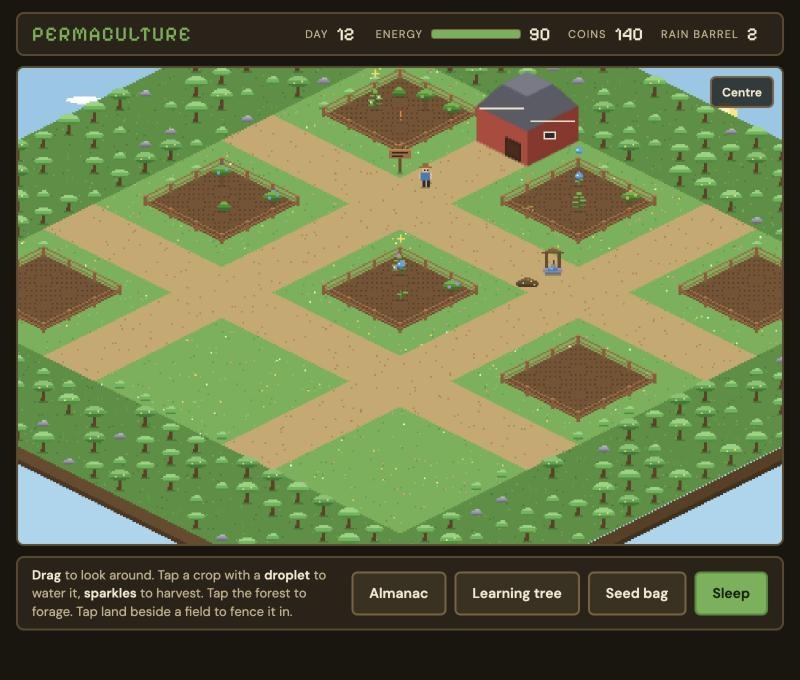
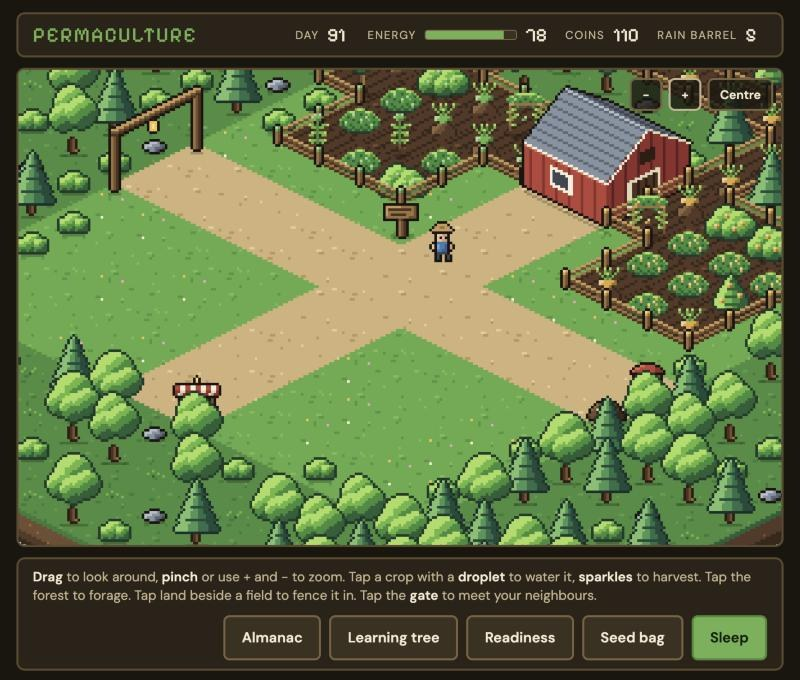
Show the new art in the README, and bring the roadmap and the code tour up to it
The README's picture of the farm, and the picture a chat app shows
beside a farm link, are of the new art. The roadmap marks sprite sheets
done and says what is still to come there. The code tour points at the
sheet, at the scripts that drew it and at the view, and says where to
change how a crop looks.

diff --git a/ROADMAP.md b/ROADMAP.md
@@ -35,7 +35,7 @@ These hold in every phase. A change that breaks one is the wrong change.
 | 1 | The rules as their own tested engine; packs loaded from files; seven packs and 200+ seeds; the depth ladder (notes → recall → explain → harvest) | Done — version 0.1.0 |
 | 2 | **Neighbours**: farms you can see and rain you can send, with no server | Seeing is built (version 0.2.0); rain is next |
 | 3 | **Your own AI key** (optional): judged harvests, a pack forge, fresh wild finds | Next |
-| 4 | **Art**: a farm you can read at a glance, then sprite sheets, a faster renderer, terraces, weather | First step built (version 0.3.0); sprite sheets wait for an art direction |
+| 4 | **Art**: a farm you can read at a glance, then sprite sheets, a faster renderer, terraces, weather | First two steps built (versions 0.3.0 and 0.8.0): each layer has its own shape, and the farm is drawn from a sprite sheet, sharp and zoomable on phone and laptop |
 | 5 | **The village server**: pictures that can be withdrawn, rain that arrives by itself | When players need it |
 | any | **The rest of the rules**, which need no AI and no server: readiness, earned unlocks, then layer balance, guilds, edges, saplings, the market | Readiness and earned unlocks (version 0.4.0), layer balance (0.5.0), guilds, edges and saplings (0.6.0) and the market, the rival and the weekly walk (0.7.0) are built; a planner is next |
 
@@ -68,12 +68,12 @@ The key is yours, kept only in your browser, and calls go straight from your bro
 
 ### Phase 4 — Art
 
-Every tile, crop and building is drawn by code, as small rectangles on a 480×300 canvas. That keeps the game tiny and fast, but there is no zoom, one season, and the art is as good as rectangles get.
+Every tile, crop and building was first drawn by code, as small rectangles on a 480×300 canvas, with no zoom. Steps 1 and 2 below have replaced that.
 
 In order, each step shipping by itself:
 
 1. **Readable at a glance** *(done, version 0.3.0; no new technology)*. Crops are drawn by their **layer**: a canopy seed grows into a tall tree, an understory seed into a small pointed one, a shrub is a round bush, a herb a stalk, ground cover a flat mat, a root a mound of earth, and a vine climbs a pole. The map now says what *kind* of knowledge sits where. Each field flies a flag in its colour. Small moments: a splash when you water, a ring when a crop grows, sparks from a harvest. The game carries its own fonts, so the page asks no other site for anything. Still to come here: rain falling when a neighbour sends it, which arrives with rain itself.
-2. **Sprite sheets** *(next; needs a choice of art first)*. One consistent pixel-art tileset replaces the code-drawn shapes: growth animations, day and night, seasons. Two sources are on the table: Kenney's isometric set, which is free for any use (CC0), or art that is generated and then touched up by hand in Aseprite. Art becomes a file anyone can contribute, the way a pack is.
+2. **Sprite sheets** *(done, version 0.8.0)*. One pixel-art sheet, made for this game, replaces the code-drawn shapes: one palette, one direction of light, every crop of every layer at every stage, and a wilted look for each. Art is now a file anyone can change, the way a pack is: open the sheet in a pixel editor, or change the scripts in `art/` that drew it. The farm is drawn at the screen's own resolution, so it is sharp on a phone and on a laptop, and it zooms: pinch, or use the + and − buttons. Still to come here: growth as animation, day and night, seasons.
 3. **A faster renderer** (PixiJS or Phaser): a camera, zoom, smooth panning, particles, and worlds much larger than one screen at 60 frames a second on a phone.
 4. **Layers as terraces.** A field's seven layers drawn up a hillside, so a hollow layer is visible from across the map.
 5. **Weather, sound and tools.** Real weather from Coorg drives the sky. The farm has sound. Tools you have earned stand on the farm as things you can see.
@@ -117,7 +117,7 @@ These are in the design, marked *(planned)* until they are built. They serve pla
 |---|---|---|
 | want to learn something | Play for a week and tell us what felt like a game and what felt like a quiz wearing a hat | the README, then an Issue or a Discussion |
 | know a subject well | Write a pack for a goal of your own, or sharpen the questions in one that exists. No code | [`docs/pack-format.md`](docs/pack-format.md) |
-| can draw pixel art | Improve a crop's shape (each is a short list of rectangles in `src/game/shapes.ts`), or sketch a tileset for Phase 4 step 2 | open a Discussion with a sketch first |
+| can draw pixel art | Improve a sprite: open `src/game/art/sheet.png` in a pixel editor, or change the script in `art/` that drew it (see `art/README.md`) | open a Discussion with a sketch first |
 | write TypeScript | A seed from the roadmap pack, a bug, or one of the rest of the rules above | [`docs/code-tour.md`](docs/code-tour.md), [`CONTRIBUTING.md`](CONTRIBUTING.md) |
 | care about accessibility | The game has had no full accessibility pass yet: contrast, keyboard play, screen readers | an Issue |
 

diff --git a/README.md b/README.md
@@ -4,7 +4,7 @@ A farm game where the crops are the things you are learning. Forgetting is wilti
 
 **Play:** [yozo06.github.io/permaculture](https://yozo06.github.io/permaculture/). To play on your own machine, run `npm run dev` and open the address it prints; it ends in `/permaculture/`, like the live site.
 
-![The farm on day 12: fields around the barn, crops at different stages, the well and the compost heap](docs/img/farm.jpg)
+![The farm: fields around the barn, crops at different stages, the gate, the signpost and the market stall](docs/img/farm.jpg)
 
 Topics are seeds. Plant one in its field with notes in your own words, water it by answering cards and then by explaining it, and it grows. Leave it thirsty for two days and it wilts, unless the rain barrel has a day to spend; a wrong answer wilts it at once. Harvest a stage-5 crop with a harder question, a write-up or proof, and it becomes a perennial tree: rooted, yours for good. The map is your retention, drawn as land.
 
@@ -20,7 +20,7 @@ A link shows only the fields you tick, with each crop at the furthest it has gro
 
 ## Status
 
-Phase 1 is done: the rules are an engine of their own (a farm is a fold over a log of what you did), the game is built from `packs/`, and a crop climbs a depth ladder — notes when you plant it, recall cards, explaining it in your own words, then a harder harvest. There are seven packs and 224 seeds: five full catalogues (Haskell backend, system design, infra, DSA patterns, leadership), everyday Kannada, and the Workshop, the game's own roadmap. The pixel art is still procedural, with a drag-to-pan world, a learning tree, wild finds and an almanac. Everything runs in your browser; your farm is saved there. Export it from the seed bag before clearing site data. Farms from the Phase 0 prototype still import.
+Phase 1 is done: the rules are an engine of their own (a farm is a fold over a log of what you did), the game is built from `packs/`, and a crop climbs a depth ladder — notes when you plant it, recall cards, explaining it in your own words, then a harder harvest. There are seven packs and 224 seeds: five full catalogues (Haskell backend, system design, infra, DSA patterns, leadership), everyday Kannada, and the Workshop, the game's own roadmap. The world pans and zooms, with a learning tree, wild finds and an almanac. Everything runs in your browser; your farm is saved there. Export it from the seed bag before clearing site data. Farms from the Phase 0 prototype still import.
 
 Phase 2, **Neighbours**, is half built (version 0.2.0): saved farms are guarded against later edits to the packs and rules, new farmers choose their fields, and farms can be shared and visited by link. Rain comes after a first week of beta. After that comes optional AI with your own key, then art.
 
@@ -33,6 +33,8 @@ Layer balance followed (version 0.5.0): a field is built from the ground up, and
 Then three rules about what grows together (version 0.6.0). A **guild** is whole while every member stands as a tree, and a whole guild pays a few coins at each harvest and check-in of its members; one wilted member and it pays nothing until you revive it. A seed on the **edge** of two fields, such as Kannada words for technology, pays double at harvest once you have a tree in the other field. And harvesting some trees drops **saplings**: harvest Raft and three deeper seeds appear in the seed bag.
 
 Then where it all leads (version 0.7.0). At the **market** a buyer is a named set of bars, such as "Haskell at 80, System design at 60", and is buying once your farm meets them; a sale is something real that came of it, recorded in your own words. Your only **rival** is your own farm thirty days ago, which you can walk round. And every seventh day is a **walk day**: no tasks, the week that was, and three questions.
+
+And the farm has art of its own (version 0.8.0): one sprite sheet, made for this game, in place of shapes drawn by code. It is drawn at your screen's own resolution, so it is sharp on a phone and on a laptop, and you can zoom: pinch, or use the + and − buttons. How the art is made, and how to change it, is in [`art/README.md`](art/README.md).
 
 Why this exists, what it promises and the whole plan are in [`ROADMAP.md`](ROADMAP.md).
 

diff --git a/docs/code-tour.md b/docs/code-tour.md
@@ -56,7 +56,8 @@ When the page loads, the store reads the log and folds it. If the log cannot be 
 - `game/sheets.ts`: HTML for the sheets, as strings in and strings out. Tested, including with hostile text.
 - `game/almanac.ts`: the rules page, written from `RULES` so its numbers cannot drift.
 - `game/links.ts`, `game/neighbours.ts`, `game/visit.ts`: farm links (the picture rides in the address after the `#`), the list of neighbours kept in the browser beside the farm, and what the neighbours sheets show. All three are pure and tested; `game.ts` only wires them up. While you visit a neighbour, `game.ts` draws their farm through `D()` and routes every tap away from your own. `docs/neighbours.md` is the design.
-- `game/shapes.ts`, `game/moments.ts`: what a crop looks like (a short list of rectangles for each layer and stage) and the small moments that play on it (a splash, a ring, sparks). Pure and tested; `game.ts` only colours them and puts them on a tile. The Almanac's pictures are drawn from the same shapes.
+- `game/art/`: the sprite sheet (`sheet.png`), where each sprite is on it (`atlas.json`), and `sprites.ts`, which says which sprite a crop is and paints a field's colour into the sheet. The scripts that drew the sheet are in `art/` at the top of the repo; `npm run art` draws it again. `game/moments.ts` holds the small moments that play on a crop (a splash, a ring, sparks).
+- `game/view.ts`: how much of the farm the canvas shows and how big. The canvas is drawn at the screen's own resolution with a whole number of screen pixels to each pixel of art; that number is the zoom. Pure and tested.
 - `game/util.ts`: `esc`, which every piece of player or pack text passes through, and `shuffle`.
 
 ## Tests
@@ -69,7 +70,7 @@ When the page loads, the store reads the log and folds it. If the log cannot be 
 - `scripts/lock.test.ts` and `src/engine/played-farm.test.ts`: saved farms keep replaying (see above).
 - `scripts/packs-lib.test.ts`: the validator catches what it should.
 - `scripts/page.test.ts`: the page loads nothing from another site (the game carries its own fonts).
-- `src/game/*.test.ts`: the views, the sheets, the store, the Almanac, the crop shapes and the moments.
+- `src/game/*.test.ts`: the views, the sheets, the store, the Almanac, the sprite sheet, the zoom and the moments.
 
 ## Where to change what
 
@@ -83,7 +84,7 @@ When the page loads, the store reads the log and folds it. If the log cannot be 
 | add something to the farm's state | `FarmState` in `types.ts`, then `initialState` and `copy` in `fold.ts`, and `fromV2` in `v2.ts`. |
 | change what a sheet says | `game/sheets.ts` if it is built there, else `game/game.ts`. Put text from a player or a pack through `esc`. |
 | show something worked out from the farm | a pure function in `game/views.ts`, with a test. |
-| change how a crop looks | the list for its layer in `game/shapes.ts`. Its tests say what must stay true: a crop never looks smaller when it grows, and no two layers look alike. |
+| change how a crop looks | its sprite on `src/game/art/sheet.png`, by hand in a pixel editor, or the drawing for its layer in `art/crops.mjs` followed by `npm run art`. See `art/README.md`. |
 | change what a farm link holds | `engine/picture.ts`. Format 1 links must stay readable for good, so add a format rather than change one, and read `docs/neighbours.md` §6 first. |
 
 ## Checks
